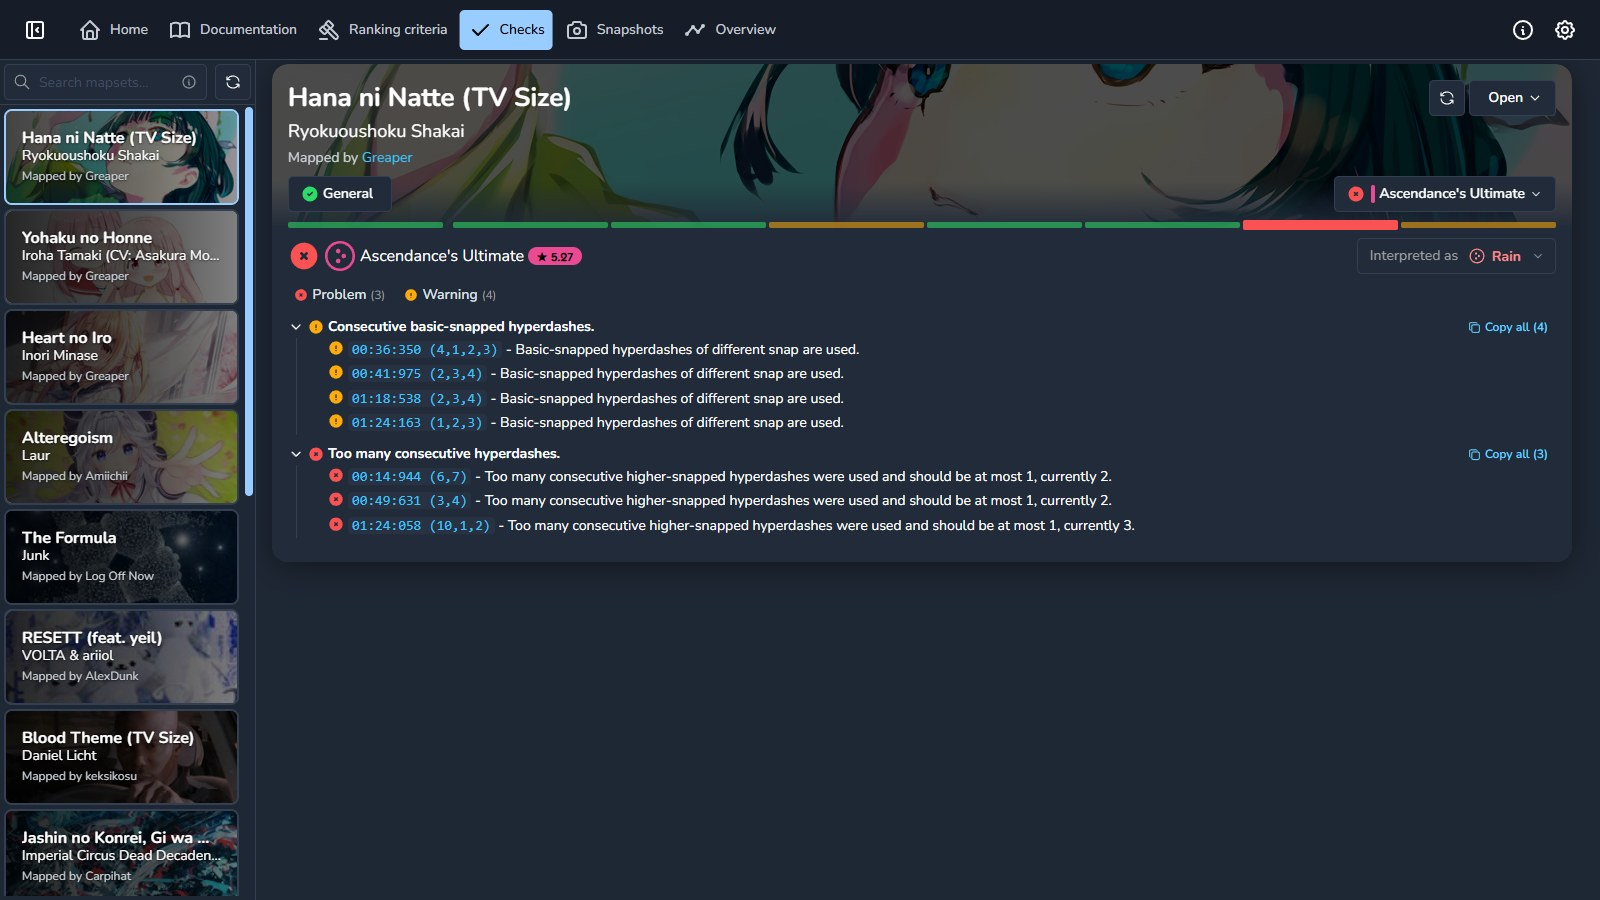
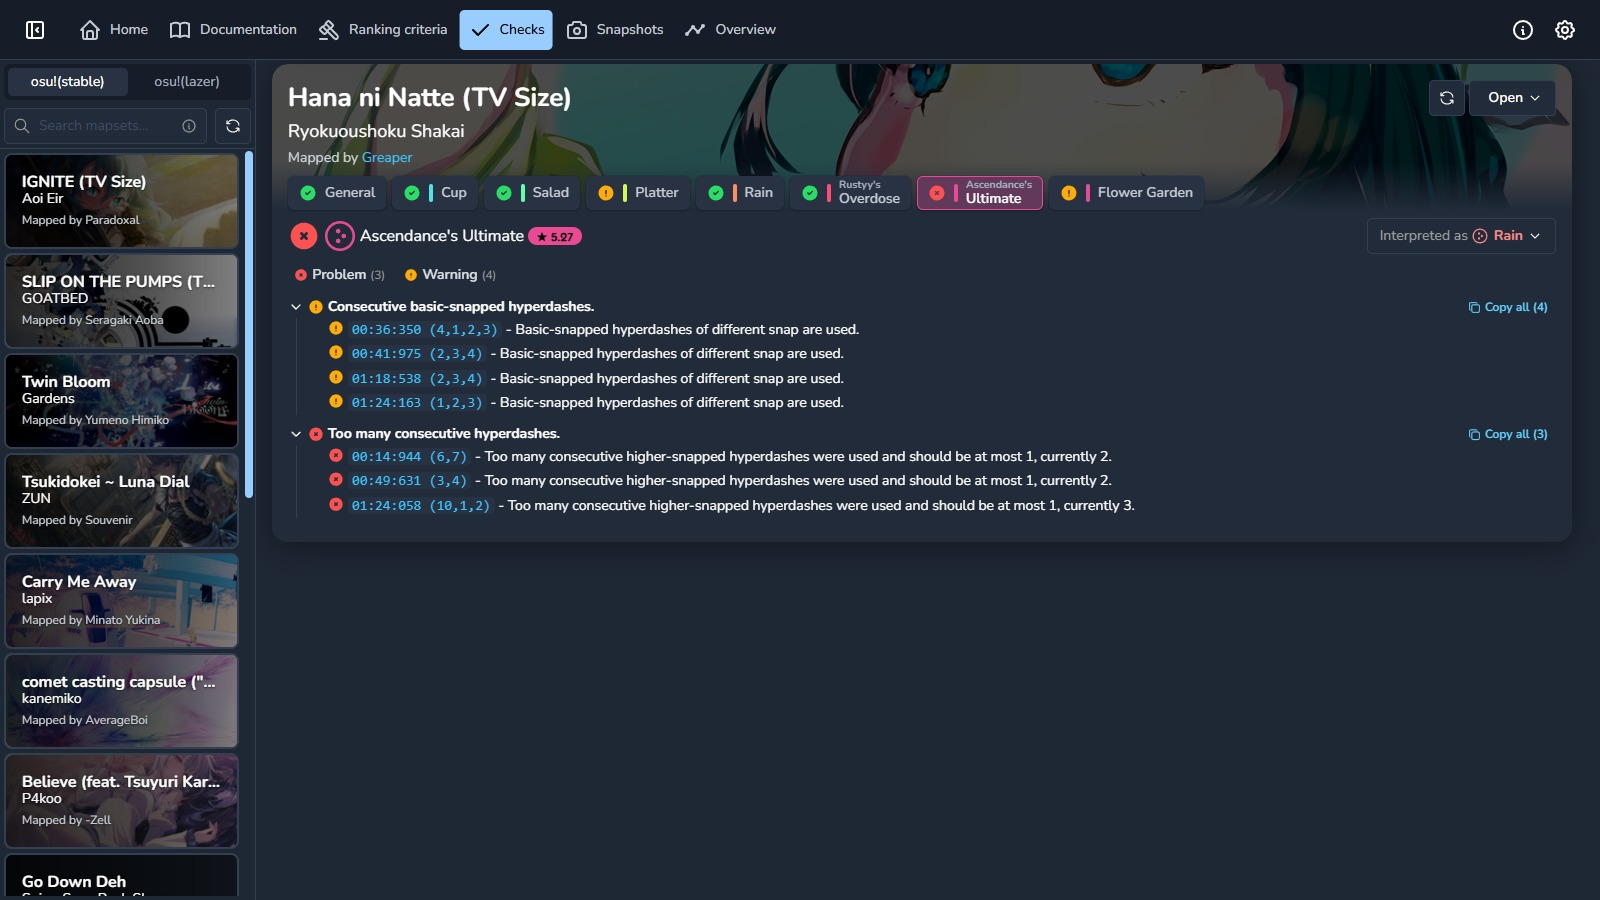
Update changelog including new changes

Changed region(s): [[0.0, 0.0622, 0.9688, 0.9956], [0.9062, 0.4667, 0.9688, 0.5289]]

diff --git a/electron-app/src/content/changelog/2.2.md b/electron-app/src/content/changelog/2.2.md
@@ -12,7 +12,7 @@ The osu! Ranking Criteria now live inside MV. Each check links to the rules and 
 
 A new Ranking Criteria page shows which rules checks cover, along with overall coverage statistics, so it's easy to see what MV checks for you and what still needs a manual look.
 
-The Ranking Criteria are kept in sync with the osu! wiki. When a rule changes, we mark it as outdated until we review the linked checks again.
+The Ranking Criteria are kept in sync with the osu! wiki. When a rule changes, we mark it as outdated until we review the linked checks again. The wiki's content usage permissions page is kept in sync too, and you can read it under Reference.
 
 ![ranking criteria](changelog/2.2/ranking-criteria.jpg)
 
@@ -25,6 +25,8 @@ Snapshots have been reworked to make it much easier to see what changed between 
 - Object changes are shown the way they look in-game
 - Hitsound changes are now tracked
 - You can compare against the full history, or pick your own start and end point
+- Clicking a changed object opens it in the editor
+- Values that osu!lazer and osu!stable only write differently, such as extra decimals or combo colours with an alpha, no longer show as changes
 
 Here is how changes look in each mode:
 
@@ -50,13 +52,13 @@ Every page now shares the same layout, spacing, tooltips and dropdowns. Switchin
 
 ![checks page](changelog/2.2/checks-full.jpg)
 
-We also reworked the difficulty picker in the top bar. A row of coloured segments under the beatmap header gives every difficulty its own spot, in spread order. On the Checks page, each segment shows that difficulty's status, so you can see right away which ones have problems or warnings. On the Snapshots page, they show which difficulties changed.
+We also reworked the difficulty picker. Every difficulty now has its own button under the beatmap header, in spread order, next to General. On the Checks page, each button shows that difficulty's status, so you can see right away which ones have problems or warnings. On the Snapshots page, they show which difficulties changed. Guest difficulties show the mapper's name above the difficulty.
 
-Click a segment to jump straight to that difficulty, or hover it to see its name and star rating. The dropdown next to it lists every difficulty with its status, grouped by game mode on hybrid sets.
+![difficulty buttons](changelog/2.2/difficulty-buttons.jpg)
 
-![difficulty segments](changelog/2.2/difficulty-segments.jpg)
+Hybrid sets show one game mode at a time, with a button for each mode at the end. Each mode button sums up the status of its difficulties, so nothing gets missed. osu!mania sets with more than one key mode are split per key mode or playstyle, such as 4K, 7K, 7K+1 or DP. Key counts above 9K are now read correctly too.
 
-![difficulty picker](changelog/2.2/difficulty-picker.jpg)
+![osu!mania key modes](changelog/2.2/difficulty-key-modes.jpg)
 
 Difficulty colours now also match how they look in osu!, check filtering is easier to use, and buttons you can't use right now are dimmed instead of hidden.
 
@@ -66,15 +68,30 @@ There's more than we can fit into a few screenshots, so if you have ideas for ot
 
 The Overview page has been redesigned to match the rest of the app. It now focuses on showing information about your mapset, and the Checks page handles judging.
 
-When you open Overview, you now see a new summary page instead of jumping straight into the metadata tab. The Objects tab is also much faster on bigger mapsets.
+The Objects tab is also much faster on bigger mapsets, and its timeline can now play the song so you can follow along with the objects.
 
-![overview summary](changelog/2.2/overview.jpg)
+### New checks
+
+- **Broken stacks** (osu!): points out an object placed just off a stack, so the game doesn't stack it with the others
+- **Content usage permissions**: points out songs from artists who don't allow, or only partly allow, their songs to be used in osu!, based on the osu! wiki. Disallowed artists are a problem, and artists with exceptions show their conditions
+- **Image file format**: points out images whose file name says a different format than the image really is, such as a PNG saved as `.jpg`
 
 ### Fixes and improvements
 
+- Difficulty names with extra words, like "Normal Dream", are now recognised as that difficulty level
+- The hitsound consistency check now includes storyboarded hitsounds
+- More unused hitsound files are detected, and circles no longer count as having a tail hitsound
+- Fewer false "Unused timing lines" reports for sample and slider velocity changes that are needed
+- Slider ticks are now timed the same way the game does it
+- osu!catch: fixed false edge dash warnings, and droplets no longer count towards the "Too high combo" check
+- osu!mania: key mode markers like "[7K]" are no longer mistaken for guest names
+- Reports, difficulty order and snapping comparisons are now the same every time you run the checks
+- Fixed images sometimes failing to load, and the "Wrong snapping" check sometimes failing, while checks run
+- Changes to a beatmap in osu!lazer now show up in MV right away
+- MV uses less memory
 - Song loading no longer hangs when a folder in your Songs library is corrupted
 - The spectrogram no longer shows noise above an audio file's frequency cutoff, which could make low-quality audio look fine. The Average Peak Frequency is also more accurate now (thanks hongaaronc!)
 - Fixed a few errors that could occur while loading audio and Overview resources
 - Added a setting to choose how times are shown throughout the app (24-hour or 12-hour format)
 
-Thanks to Hivie for a lot of the UI polish in this release, from the difficulty picker and check filtering to the faster Objects tab!
+Thanks to Hivie for a lot of the UI polish in this release, from the difficulty picker and check filtering to the faster Objects tab and its audio playback!
